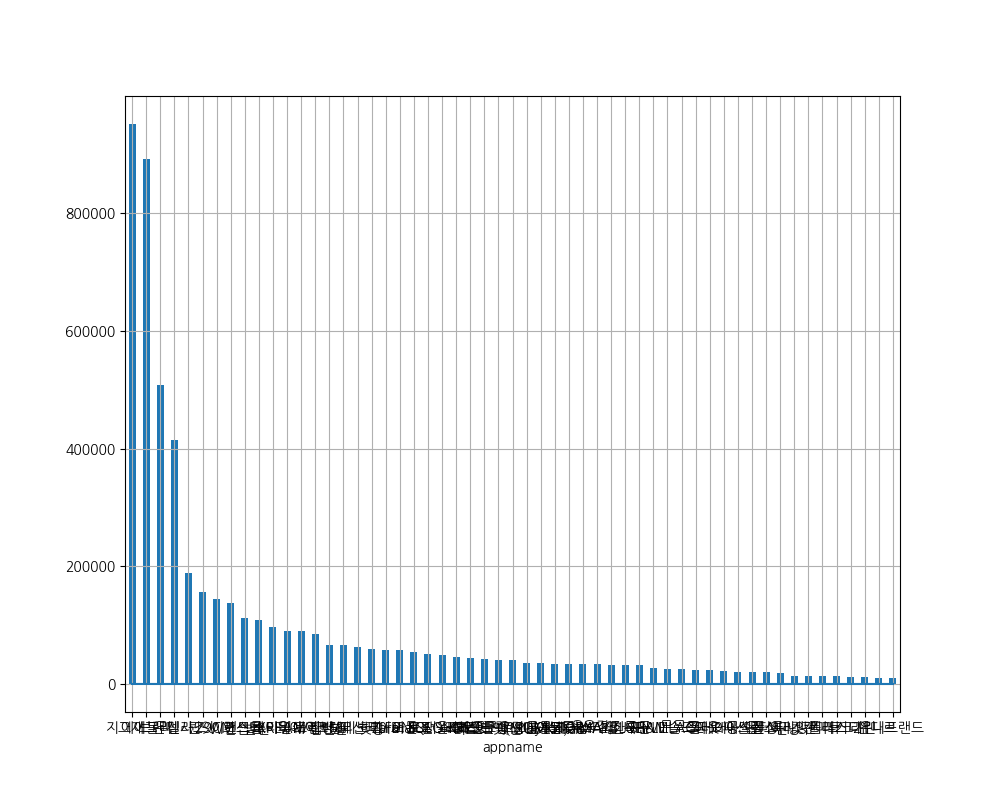
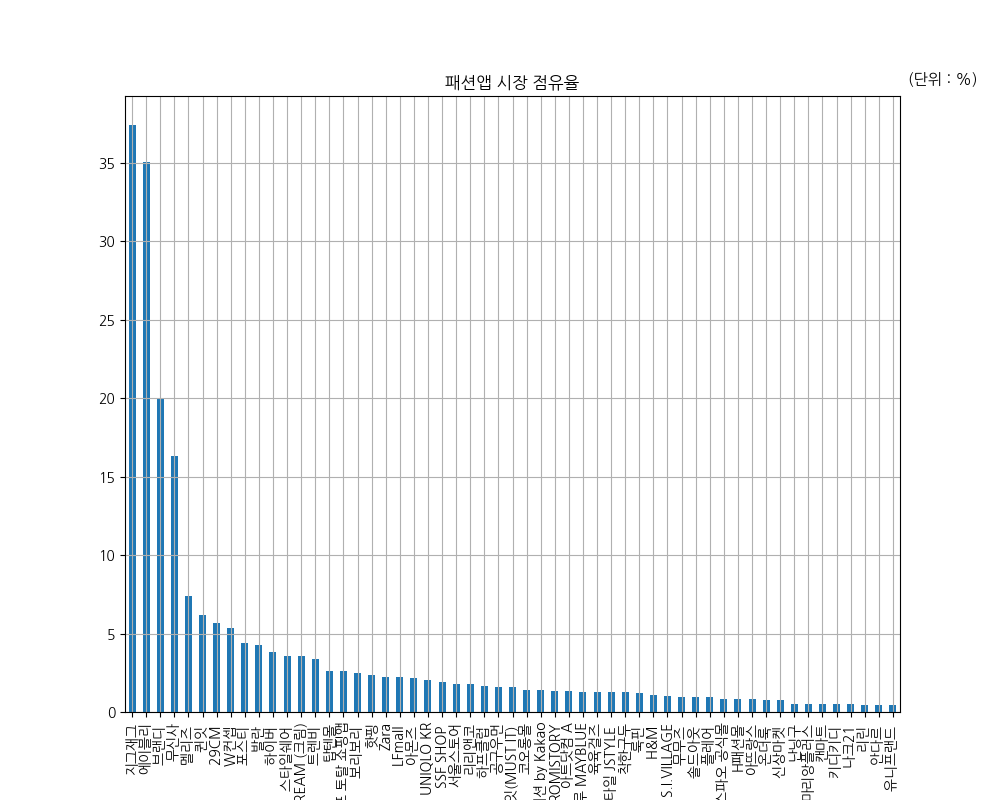
analysis data

diff --git a/analysis/intro.py b/analysis/intro.py
@@ -19,10 +19,10 @@ trash = pd.read_csv('trash.csv')
 trash = trash.set_index('year')
 print(trash)
 
-mycolormap1 = cm.get_cmap("gist_rainbow", 2)
-mycolor1 = [mycolormap1(i) for i in range(2)]
-
-trash['ton/day'].plot(kind='line', figsize=(10, 8), color=mycolor1, grid=True)
+tplt = trash['ton/day'].plot(kind='line', figsize=(10, 8), grid=True)
+tplt.text(4, 120, '(단위 : 톤)', ha='right', fontsize=11)
+tplt.legend(loc=2)
+plt.title('일간 폐의류량')
 plt.savefig("output1.png")
 
 #백화점
@@ -30,10 +30,10 @@ Dprofit = pd.read_csv('DepartmentProfit.csv')
 Dprofit = Dprofit.set_index('year')
 print(Dprofit)
 
-mycolormap2 = cm.get_cmap("gist_rainbow", 6)
-mycolor2 = [mycolormap2(i) for i in range(6)]
-
-Dprofit.plot(kind='line', figsize=(10, 8), color=mycolor2, grid=True)
+df = Dprofit.plot(kind='line', figsize=(10, 8), grid=True)
+df.text(1, 1, '(단위 : %)', ha='right', fontsize=11)
+df.legend(loc=2)
+plt.title('백화점 방문객 증감률')
 plt.savefig("output2.png")
 
 #패션 앱 사용자 수
@@ -41,15 +41,20 @@ appuser = pd.read_csv('appuser.csv')
 appuser = appuser.set_index('appname')
 print(appuser)
 
-mycolormap3 = cm.get_cmap("gist_rainbow", 1)
-mycolor3 = [mycolormap3(i) for i in range(1)]
-
 au1 = appuser['user'].plot(kind='bar', figsize=(10, 8), grid=True)
 au1.get_legend().set_visible(False)
+au1.text(60, 1000000, '(단위 : 명)', ha='right', fontsize=11)
+plt.title('패션앱 이용자 수')
 plt.savefig("output3.png")
 
-au2 = appuser['share'].plot(kind='line', figsize=(10, 8), grid=True)
+appuser2 = pd.read_csv('appuser.csv')
+appuser2 = appuser2.loc[:,['appname','share']]
+appuser2 = appuser2.set_index('appname')
+
+au2 = appuser2.plot(kind='bar', figsize=(10, 8), grid=True)
+plt.title('패션앱 시장 점유율')
 au2.get_legend().set_visible(False)
+au2.text(60, 40, '(단위 : %)', ha='right', fontsize=11)
 plt.savefig("output4.png")
 
 #온라인몰 유형별 매출액#
